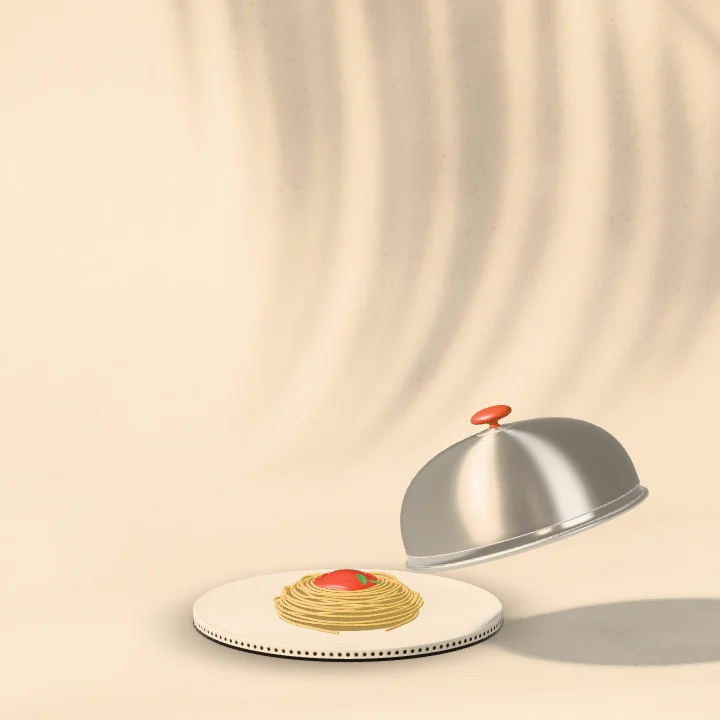
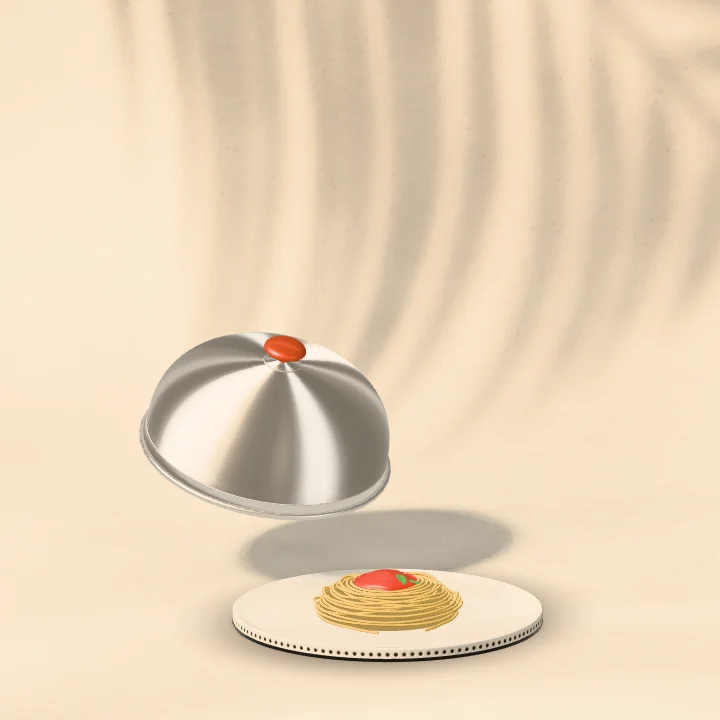
Dinner: carry across at 1.58 (clearly over the rim on screen); final Dinner posters and thumbnail

diff --git a/models/dinnerContract.ts b/models/dinnerContract.ts
@@ -66,7 +66,7 @@ export const DINNER_BIN_START = new Vector3(-4.3, 0, -1.7);
 export const DINNER_WALL_Z = -4.2;
 /** Underside clearance over the rim while the dish crosses it, and the carry height. */
 export const DINNER_RIM_CLEARANCE = 0.06;
-export const DINNER_CARRY = 1.4;
+export const DINNER_CARRY = 1.58;
 /** Plate underside when the dish rests on the liner floor. */
 export const DISH_IN_BIN = new Vector3(DINNER_BIN_POS.x, BIN.floor, DINNER_BIN_POS.z);
 

diff --git a/docs/spec-revisions.md b/docs/spec-revisions.md
@@ -17,7 +17,7 @@ The Master Specification and sub-specs live in the Vault (canonical on the Mac M
 | 11 | Effort (Production Plan) | 15-hour fee calculation (not a verified estimate) | Full premium level for all five scenes, projected ≈18 h wall-clock | Surya, checkpoint 3 | docs/time-log.md |
 | 12 | Checkpoints 4 and 5 (Production Plan) | Surya reviews the collection and qualification | Surya asked (2026-09-29) that the plan be carried to completion overnight using independent critical design reviewers; their sign-offs are recorded as pending Surya's confirmation | Surya, 2026-09-29 | docs/qualification.md, review page |
 | 13 | Dinner acceptance (Dinner sub-spec) | "Cover lifts and shifts to one side, revealing food"; "Cover rests beside the plate" | The cloche lifts and is set down behind-left of the plate, so the food stays in front of it on screen and the dish stays centred in the fixed frame. The host's cloche starts poised above that same place, so covering is the reverse of uncovering (sub-spec acceptance: "one coherent reversible physical action") | Recorded at checkpoint 4 from the critical reviews, pending Surya's confirmation | models/dinnerContract.ts (`COVER_BESIDE`) |
-| 14 | Dinner decline (Dinner sub-spec beat table: bin enters and opens 0–0.25 s; dish into the bin 0.25–0.95 s; bin closes 0.95–1.20 s) | "Covered dish moves as one stylized unit into the bin along the approved transfer path" | The transfer path is straight up, across at 1.4 and straight down onto the liner floor, with rounded corners, paced mostly by on-screen distance with one ease over 0.25–0.95 s, so the dish never hovers or stops over the bin. The bin eases in over 0–0.34 s and its flaps open over 0.14–0.36 s (overlapping the dish's lift, so the bin never slams in). The flaps start closing at 0.80 s, as soon as the dish is out of sight, instead of 0.95 s (no frozen frames) | Recorded at checkpoint 4 (motion review), pending Surya's confirmation | src/scenes/dinner/sequences.ts (`PATH`) |
+| 14 | Dinner decline (Dinner sub-spec beat table: bin enters and opens 0–0.25 s; dish into the bin 0.25–0.95 s; bin closes 0.95–1.20 s) | "Covered dish moves as one stylized unit into the bin along the approved transfer path" | The transfer path is straight up, across at 1.58 and straight down onto the liner floor, with rounded corners, paced mostly by on-screen distance with one ease over 0.25–0.95 s, so the dish never hovers or stops over the bin. The bin eases in over 0–0.34 s and its flaps open over 0.14–0.36 s (overlapping the dish's lift, so the bin never slams in). The flaps start closing at 0.80 s, as soon as the dish is out of sight, instead of 0.95 s (no frozen frames) | Recorded at checkpoint 4 (motion review), pending Surya's confirmation | src/scenes/dinner/sequences.ts (`PATH`) |
 | 15 | Secondary settle (Dinner sub-spec, Master §6) | Optional ≤1° cover settle; settle to an exact pose at the prescribed deadline | The cloche touches down with a little speed left and rocks once on its rim after seating and after it is set down (≤1°, peak ≈0.96°, visible at phone scale). Business damps its card sway over each sequence's last 0.25 s, so the deadline snap is no longer visible | Recorded at checkpoint 4 | src/scenes/dinner/sequences.ts (`settle`), src/scenes/business/index.ts |
 | 16 | Quality tiers (Master §9) | Low: simplified materials/environment detail; tiers keep camera, silhouette, motion and status identical | Low keeps the palm gobo as a 192² copy. Dropping it brightened and cooled every object by 35–90 %, which broke "identical". With the copy, Low renders objects within 5–10 % of Normal | Recorded at checkpoint 4 (measured) | src/render/studio.ts, docs/style-reference.md |
 | 17 | Dinner food (Dinner sub-spec: presets `pasta` and `vegetables`) | Simplified, recognisable food for both presets | **Food shelved for now; Dinner is judged on the dish unveiling.** The current pasta and vegetables models (builder round 3) stay in place as frozen placeholders, so the presets, tests and posters keep working; no further food polish until the food is added later | Surya, 2026-09-29 | models/dinnerParts.ts (frozen), docs/style-reference.md (Dinner) |
